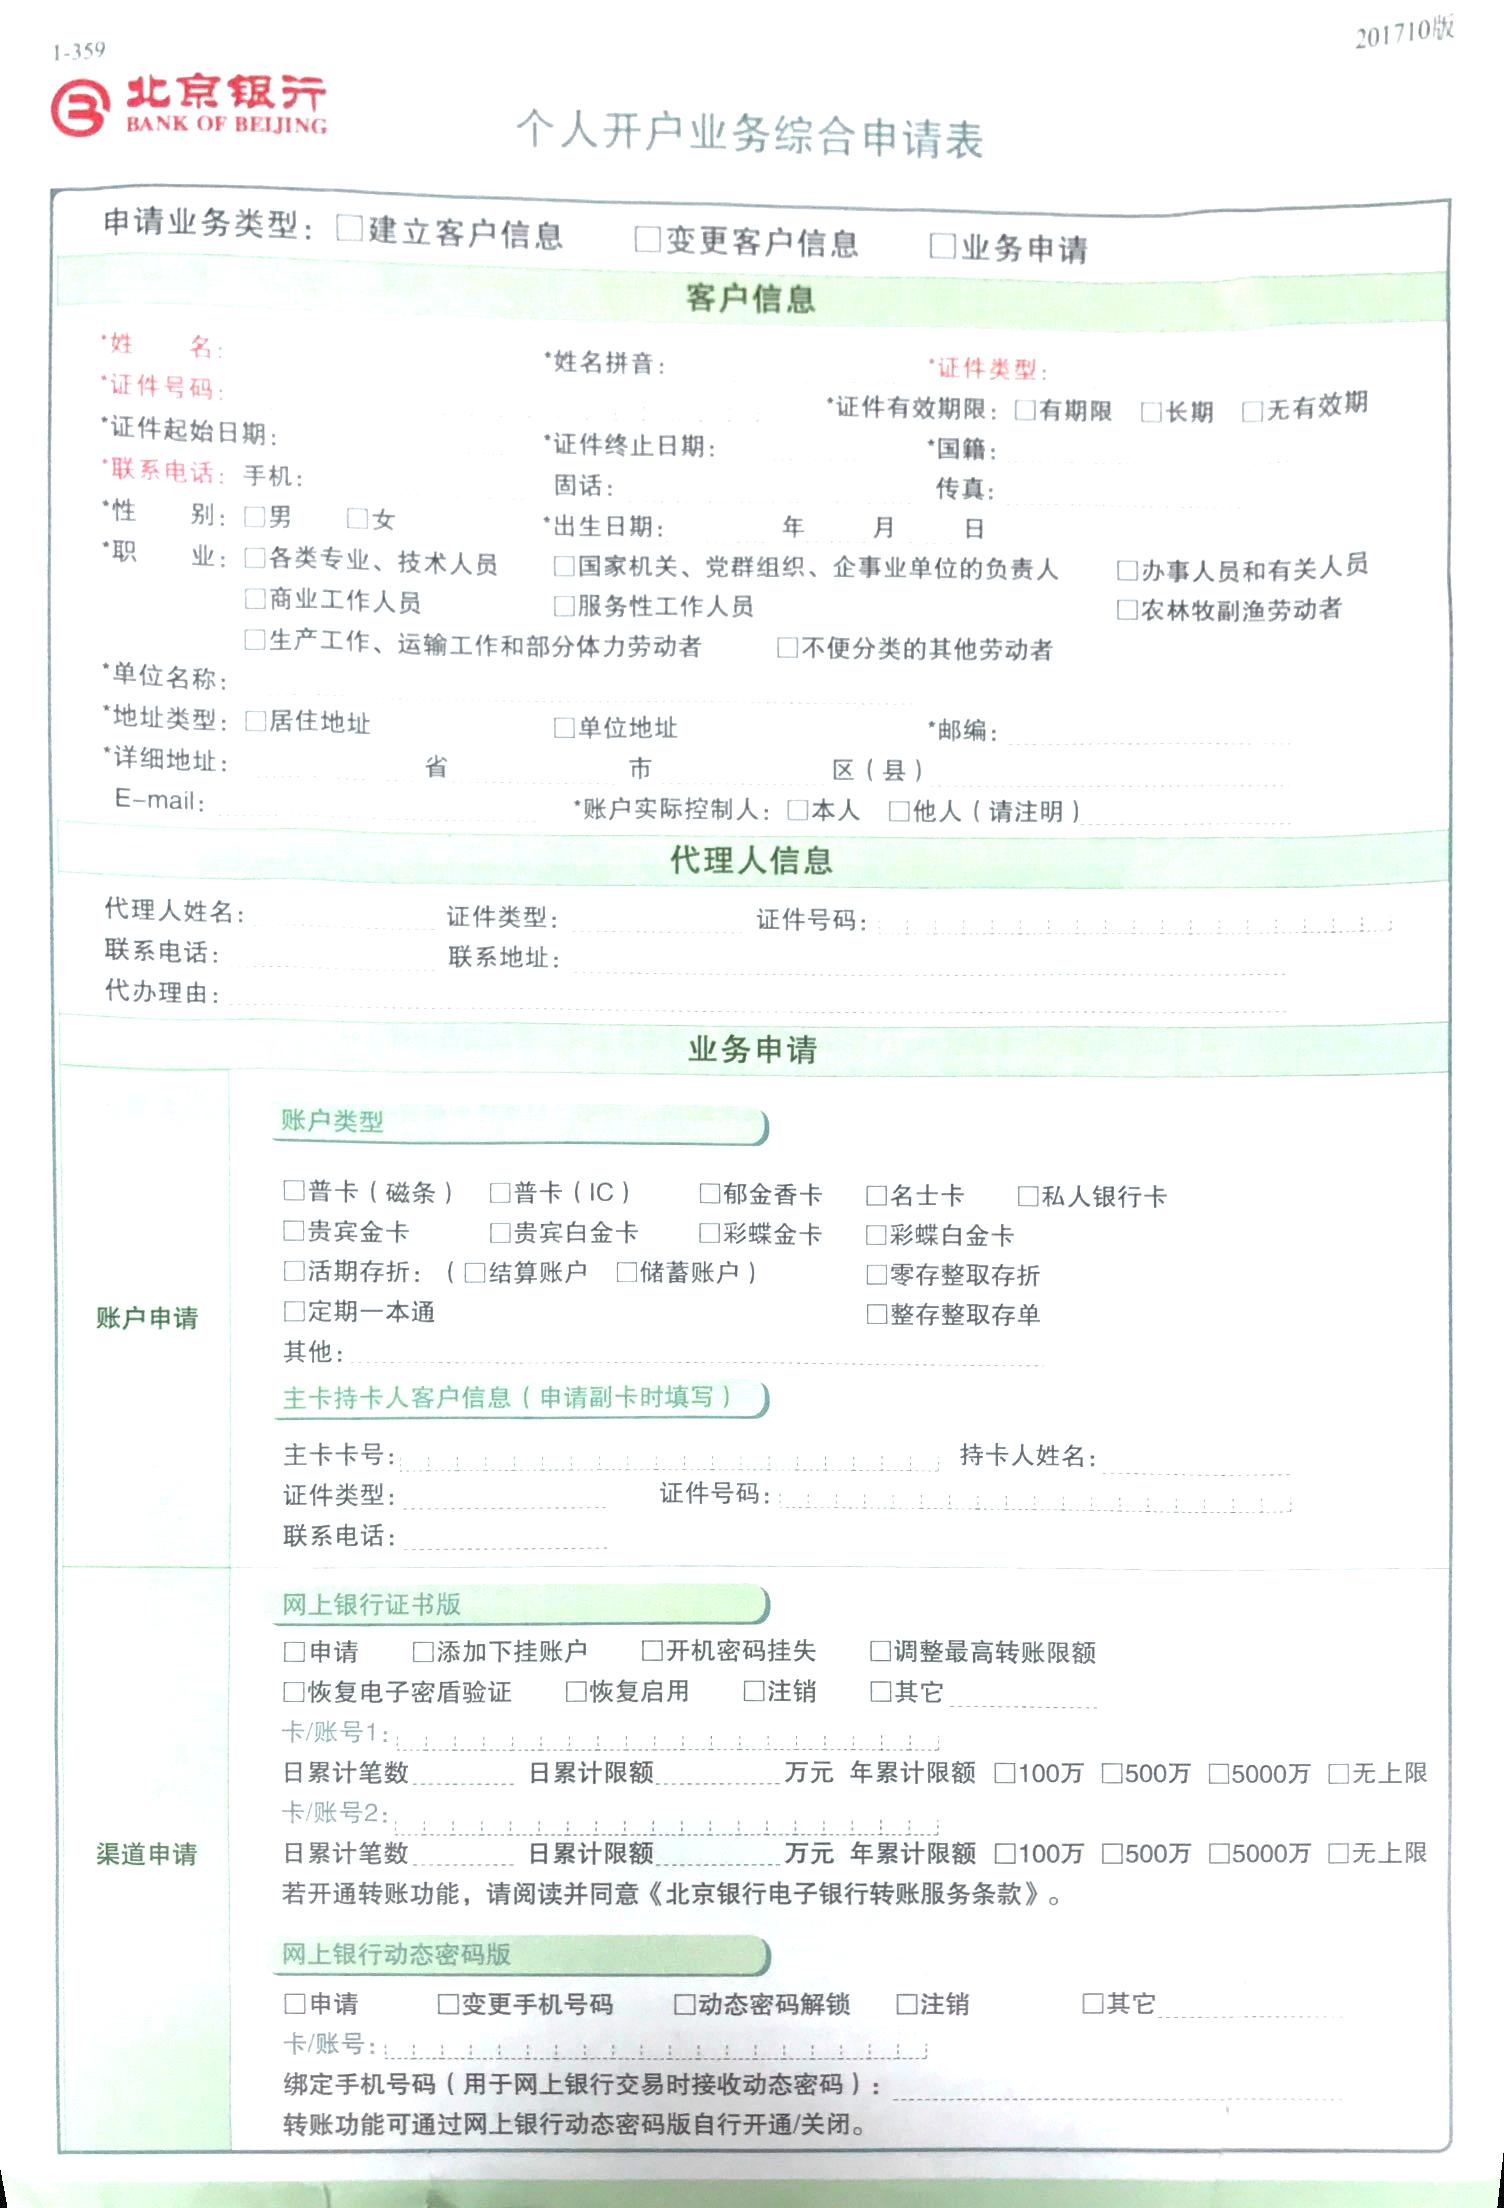
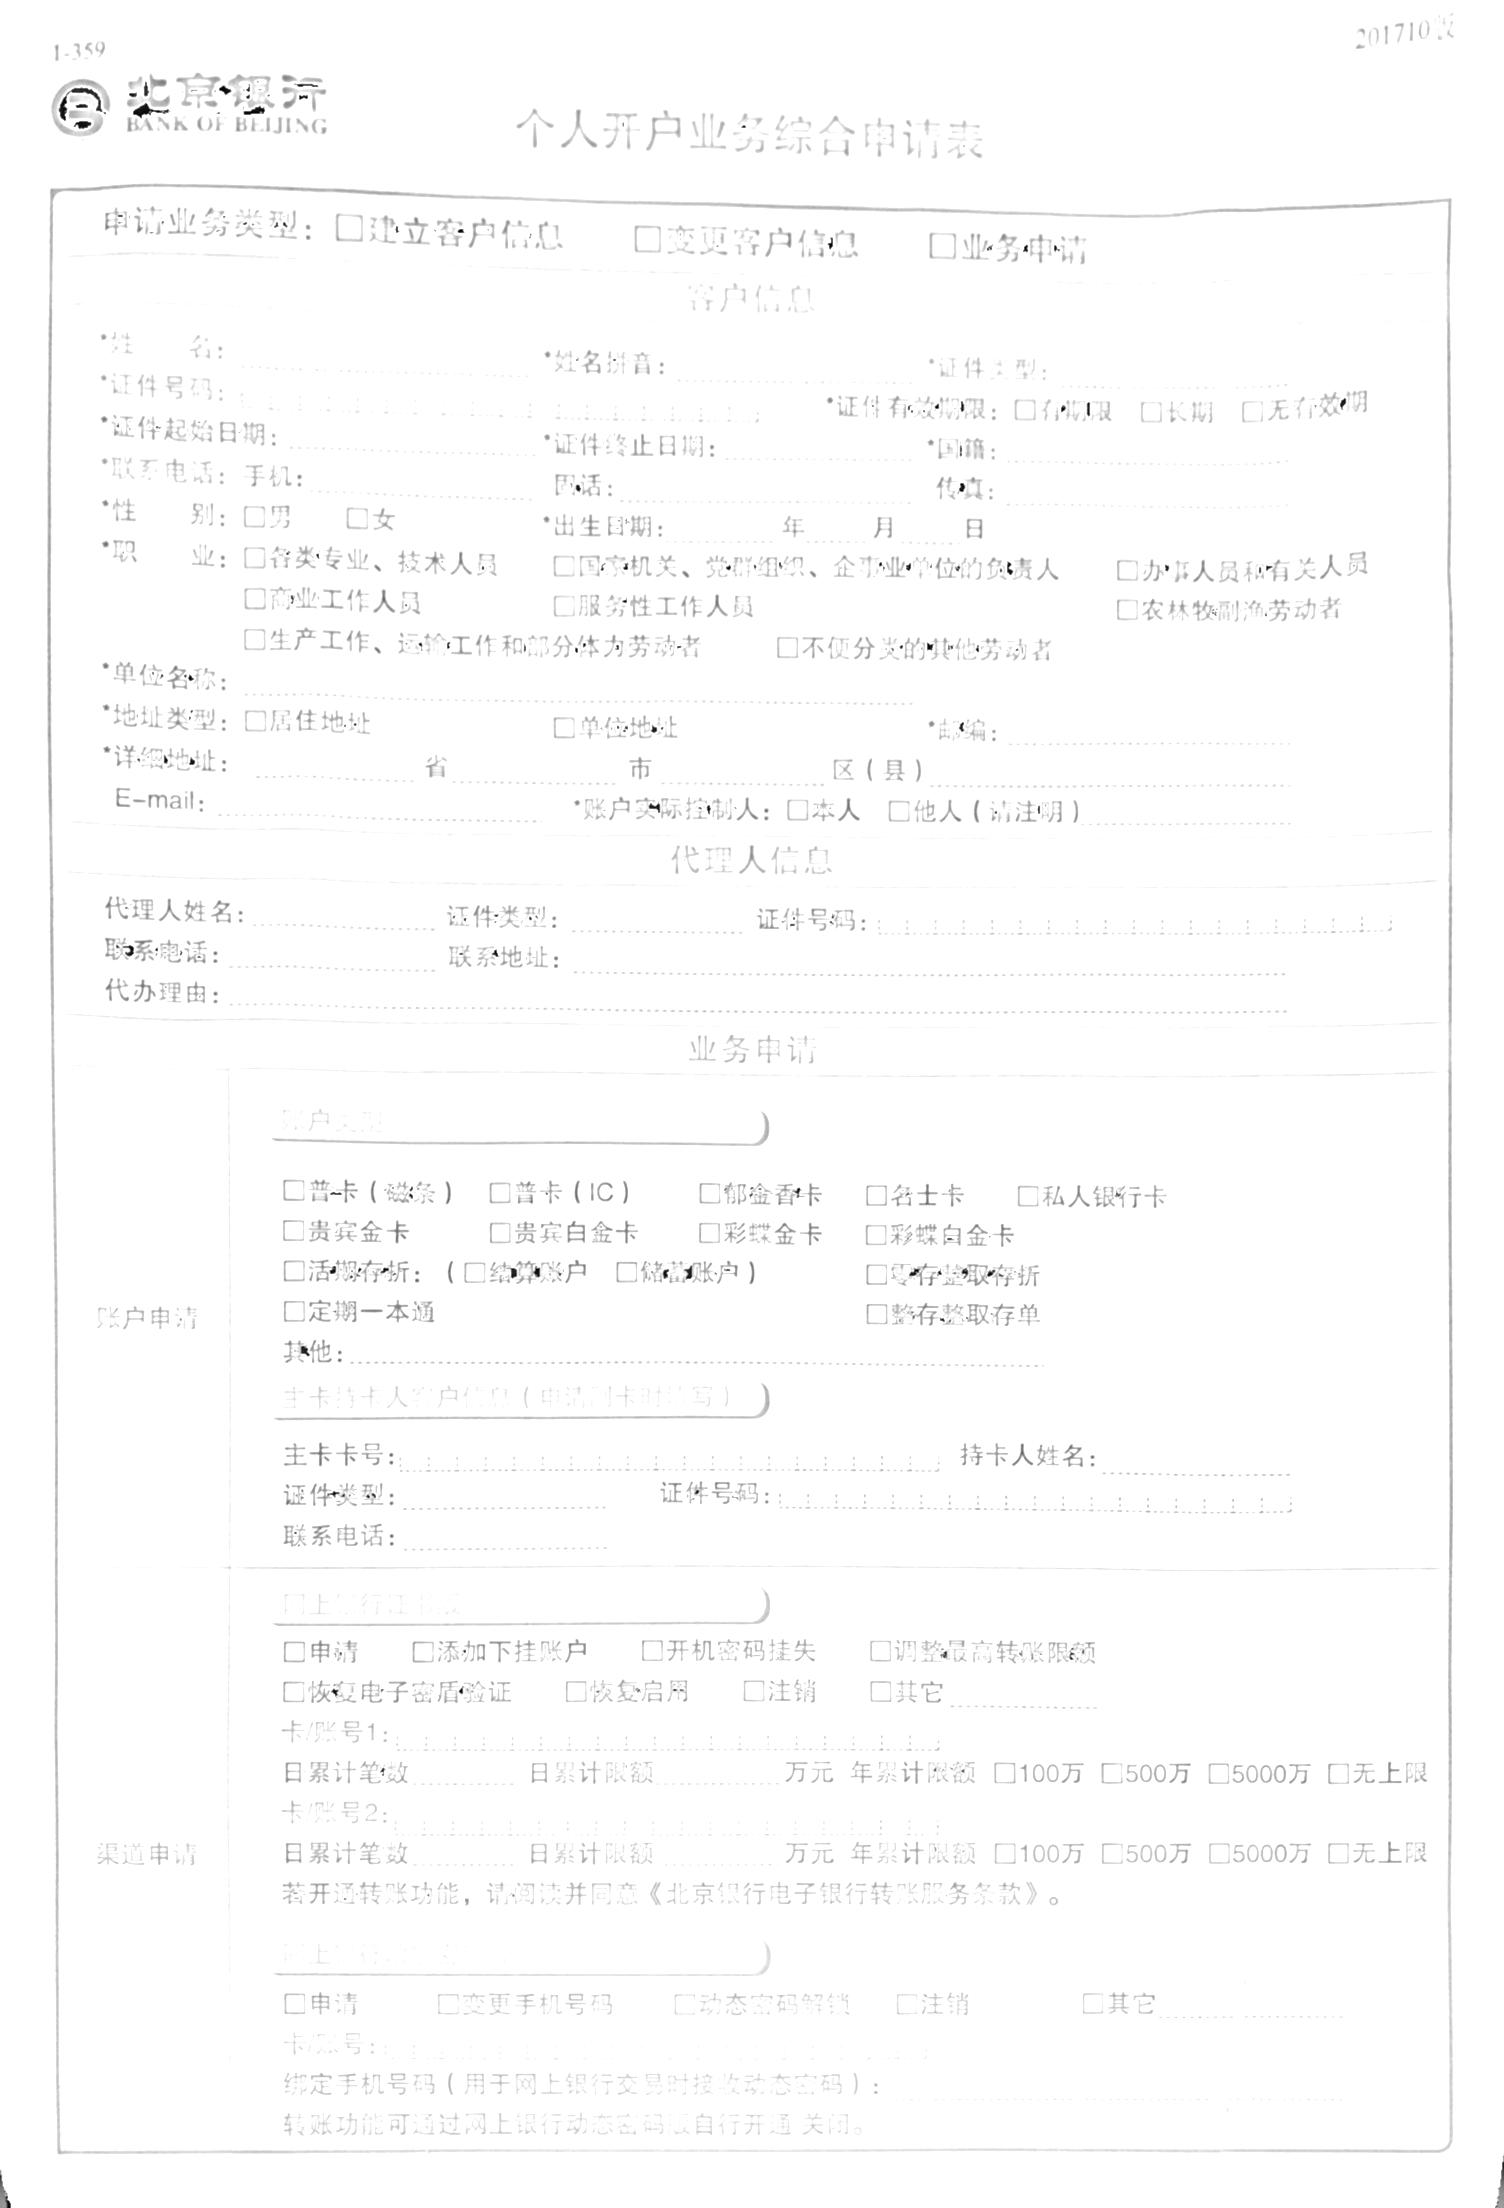
image enhance

diff --git a/gaussian_filter.py b/gaussian_filter.py
@@ -4,7 +4,6 @@ from PIL import Image
 from PIL import ImageEnhance, ImageFilter
 import numpy as np
 
-
 isShowImage = True
 
 def showCV2Image(title, img):
@@ -31,39 +30,72 @@ if __name__ == '__main__':
     # if isShowImage:
     #     showCV2Image('dst_b', dst)
 
-    #下面进行图像增强操作
-    src1 = Image.open('4.jpg')#imread的图像为数组，image其自带的open方法无法处理，mode不对应，open返回一个pil对象
-
     # 需要去除光照的影响
-    
+    gray = cv2.cvtColor(src, cv2.COLOR_BGR2GRAY)#彩色转灰度图
+    if isShowImage:
+        showCV2Image('gray', gray)
+    average = np.mean(gray)#求原图的平均灰度
+    rows, cols = gray.shape
+    block = 16
+    rows_new = int(np.ceil(rows/block))
+    cols_new = int(np.ceil(cols/block))#将原图根据block大小，划分为rows_new*cols_new大小的块
+    block_image = np.zeros((rows_new, cols_new), dtype=np.float32)#求每一块的灰度均值，构成矩阵
+    for r in range(rows_new):
+        for c in range(cols_new):
+            row_min = r*block
+            row_max = (r+1)*block
+            if row_max > rows:
+                row_max = rows
+            colmin = c*block
+            colmax = (c+1)*block
+            if colmax > cols:
+                colmax = cols
+            imageROI = gray[row_min:row_max, colmin:colmax]#当前块
+            block_mean = np.mean(imageROI)#求每一块的灰度均值
+            block_image[r, c] = block_mean#构成矩阵
+    block_image = block_image - average#亮度矩阵差
+    # INTER_CUBIC 4*4像素邻域的双三次插值
+    #将rows_new*cols_new的图像恢复到与原图一样大小
+    block_image2 = cv2.resize(block_image, (cols, rows), interpolation=cv2.INTER_CUBIC)
+    gray2 = gray.astype(np.float32)
+    dst = gray2 - block_image2
+    dst = dst.astype(np.uint8)
+    dst = cv2.GaussianBlur(dst, (3, 3), 0)
+    dst = cv2.cvtColor(dst, cv2.COLOR_GRAY2BGR)
+    cv2.imwrite('4_1.jpg', dst)
+    if isShowImage:
+        showCV2Image('dst', dst)
 
-    # # 亮度增强
-    # enh_bri = ImageEnhance.Brightness(src1)
-    # brightness = 1.5
-    # gf_brightened = enh_bri.enhance(brightness)
-    # gf_brightened.show(title='gf_brightened')
-    # gf_brightened.save('gf_brightened.jpg')
-    #
-    # #对比度增强
-    # enh_con = ImageEnhance.Contrast(gf_brightened)
-    # contrast = 1.5
-    # gf_contrast = enh_con.enhance(contrast)
-    # gf_contrast.show(title='gf_contrast')
-    # gf_contrast.save('gf_contrast.jpg')
-    #
-    # #锐化增强
-    # enh_sha = ImageEnhance.Sharpness(gf_contrast)
-    # sharpness = 3.0
-    # gf_sharped = enh_sha.enhance(sharpness)
-    # gf_sharped.show(title='gf_sharped')
-    # gf_sharped.save('gf_sharped.jpg')
-    #
-    # #色度增强
-    # enh_col = ImageEnhance.Color(gf_sharped)
-    # color = 1.5
-    # gf_colored = enh_col.enhance(color)
-    # gf_colored.show(title='gf_colored')
-    # gf_colored.save('gf_colored.jpg')
+    # 下面进行图像增强操作
+    src1 = Image.open('4_1.jpg')  # imread的图像为数组，image其自带的open方法无法处理，mode不对应，open返回一个pil对象
+
+    # 亮度增强
+    enh_bri = ImageEnhance.Brightness(src1)
+    brightness = 1.5
+    gf_brightened = enh_bri.enhance(brightness)
+    gf_brightened.show(title='gf_brightened')
+    gf_brightened.save('gf_brightened.jpg')
+
+    #对比度增强
+    enh_con = ImageEnhance.Contrast(gf_brightened)
+    contrast = 25
+    gf_contrast = enh_con.enhance(contrast)
+    gf_contrast.show(title='gf_contrast')
+    gf_contrast.save('gf_contrast.jpg')
+
+    #锐化增强
+    enh_sha = ImageEnhance.Sharpness(gf_contrast)
+    sharpness = 10.0
+    gf_sharped = enh_sha.enhance(sharpness)
+    gf_sharped.show(title='gf_sharped')
+    gf_sharped.save('gf_sharped.jpg')
+
+    #色度增强
+    enh_col = ImageEnhance.Color(gf_sharped)
+    color = 1.5
+    gf_colored = enh_col.enhance(color)
+    gf_colored.show(title='gf_colored')
+    gf_colored.save('gf_colored.jpg')
 
 
 
